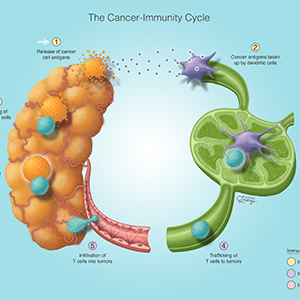
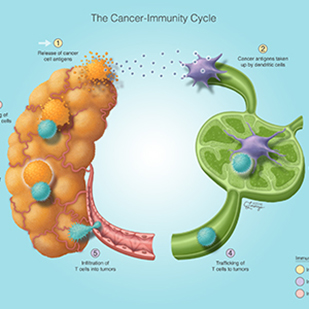
Resize thumbnails

diff --git a/styles.css b/styles.css
@@ -158,7 +158,7 @@ nav li { padding-left: 5%; float: right; }
 }
 
 .gallery li img {
-  max-width: 90%;
+  max-width: 97%;
   height: auto;
   box-shadow: 0 3px 15px -6px #777;
   transition: transform .3s ease-in-out;
